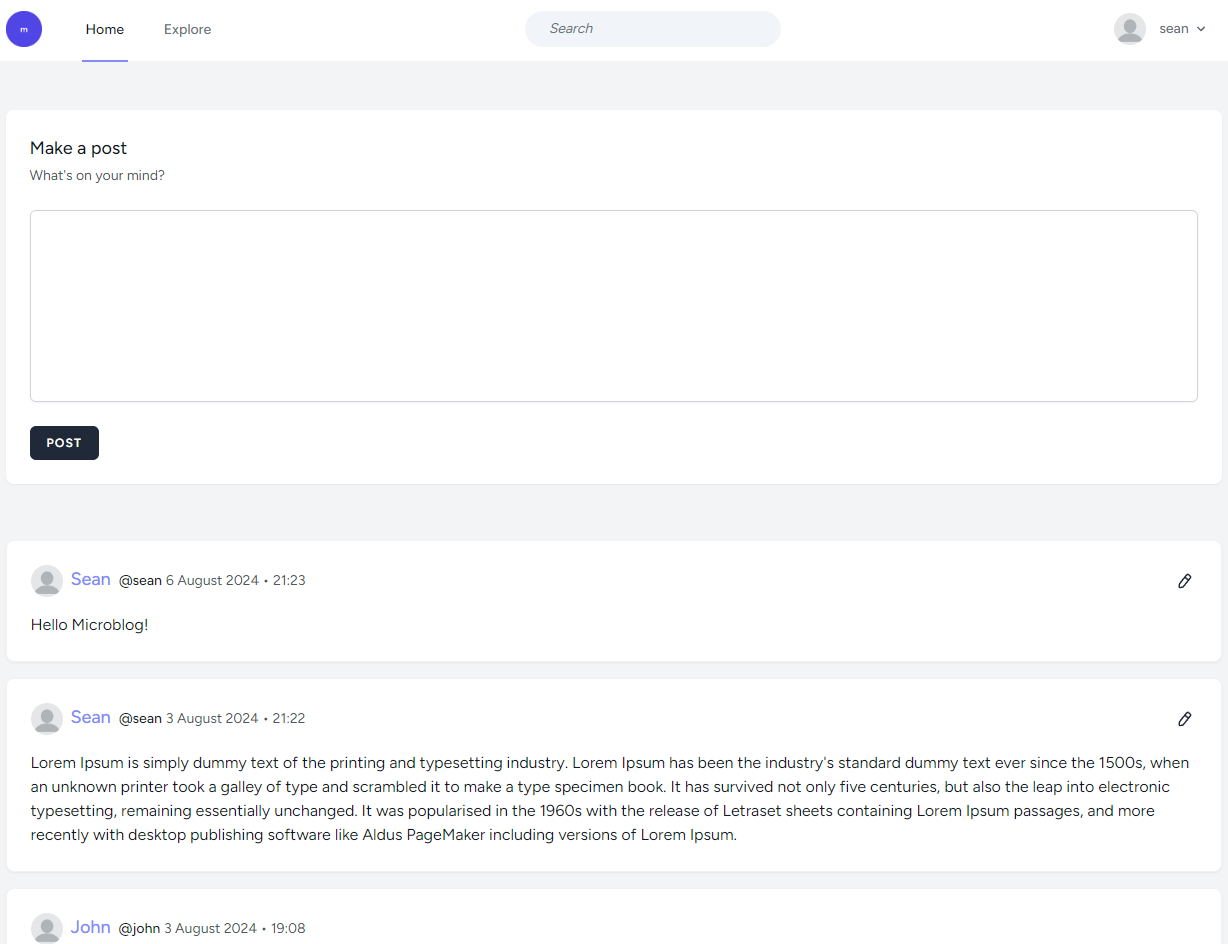
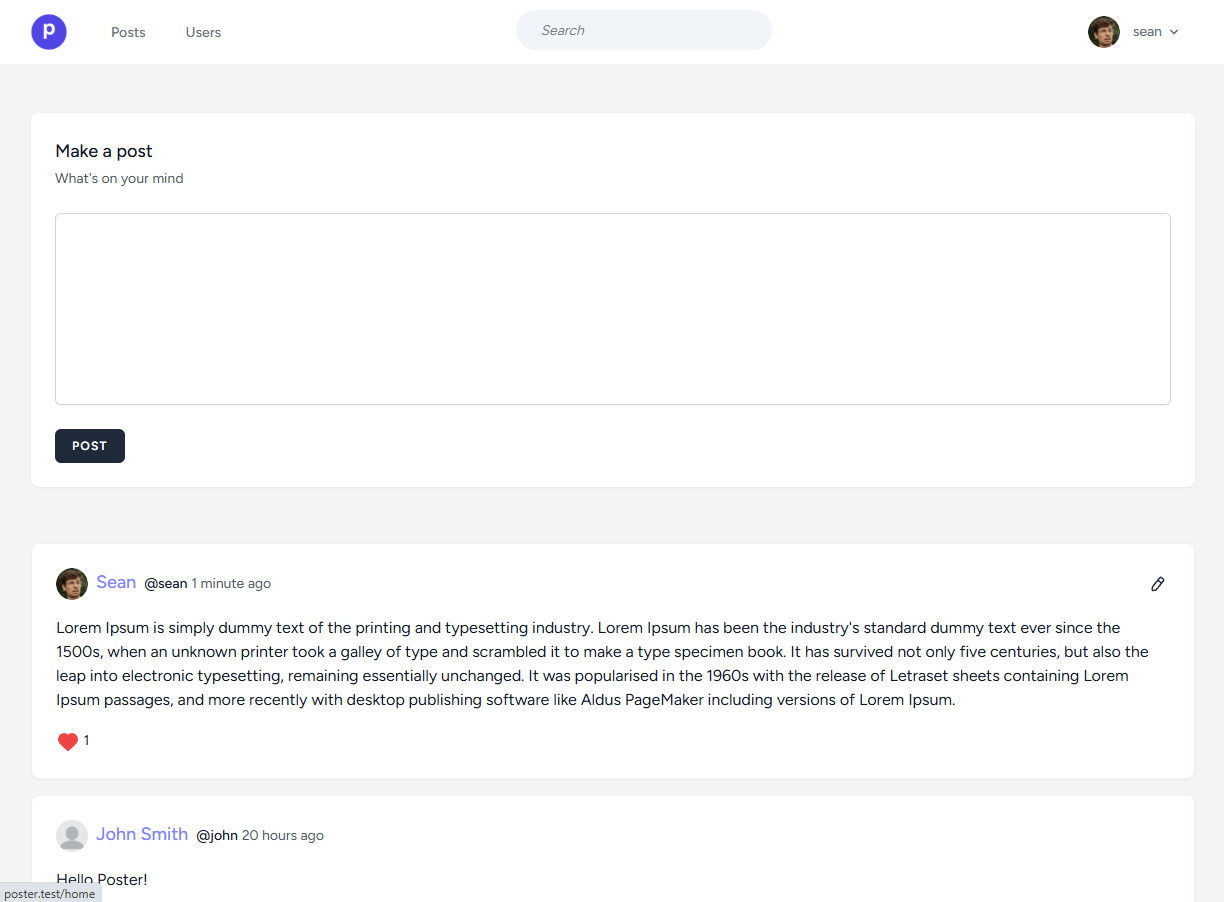
Name change

diff --git a/resources/views/welcome.blade.php b/resources/views/welcome.blade.php
@@ -4,7 +4,7 @@
         <meta charset="utf-8">
         <meta name="viewport" content="width=device-width, initial-scale=1">
 
-        <title>Microblog</title>
+        <title>{{ env('APP_NAME') }}</title>
 
         <!-- Fonts -->
         <link rel="preconnect" href="https://fonts.bunny.net">
@@ -14,10 +14,8 @@
         <link rel="icon" type="image/png" sizes="32x32" href="{{ asset('images/favicon/favicon-32x32.png') }}">
         <link rel="icon" type="image/png" sizes="16x16" href="{{ asset('images/favicon/favicon-16x16.png') }}">
         <link rel="manifest" href="{{ asset('images/favicon/site.webmanifest') }}">
-        <link rel="mask-icon" href="{{ asset('images/favicon/safari-pinned-tab.svg') }}" color="#5bbad5">
         <link rel="shortcut icon" href="{{ asset('images/favicon/favicon.ico') }}">
         <meta name="msapplication-TileColor" content="#2b5797">
-        <meta name="msapplication-config" content="{{ asset('images/favicon/browserconfig.xml') }}">
         <meta name="theme-color" content="#ffffff">
 
         @vite(['resources/css/app.css', 'resources/js/app.js'])
@@ -26,45 +24,11 @@
         <div class="bg-gray-50 text-black/50 dark:bg-black dark:text-white/50">
             <div class="relative min-h-screen flex flex-col items-center justify-center selection:bg-indigo-600 selection:text-white">
                 <div class="relative w-full max-w-2xl px-6 lg:max-w-7xl">
-                    <header class="grid grid-cols-2 items-center gap-2 py-10 lg:grid-cols-3">
-                        <div class="flex lg:justify-center lg:col-start-2">
-                            <x-application-logo class="h-12 w-auto fill-current" />
-                        </div>
-                    </header>
-
                     <main class="mt-6">
                         <div class="grid gap-6 lg:grid-cols-2 lg:gap-8">
-                            <a
-                                id="docs-card"
-                                class="flex flex-col items-start gap-6 overflow-hidden rounded-lg bg-white p-6 shadow-[0px_14px_34px_0px_rgba(0,0,0,0.08)] ring-1 ring-white/[0.05] md:row-span-3 lg:p-10 lg:pb-10 dark:bg-zinc-900 dark:ring-zinc-800"
-                            >
-                                <div id="screenshot-container" class="relative flex w-full flex-1 items-stretch">
-                                    <img
-                                        src="{{ asset('images/screenshot.png') }}"
-                                        alt="Website screenshot"
-                                        class="h-full w-full flex-1 rounded-[10px] drop-shadow-[0px_4px_34px_rgba(0,0,0,0.06)]"
-                                        onerror="
-                                            document.getElementById('screenshot-container').classList.add('!hidden');
-                                            document.getElementById('docs-card').classList.add('!row-span-1');
-                                            document.getElementById('docs-card-content').classList.add('!flex-row');
-                                            document.getElementById('background').classList.add('!hidden');
-                                        "
-                                    />
-                                    <div class="absolute -bottom-16 -left-16 h-40 w-[calc(100%+8rem)] bg-gradient-to-b from-transparent via-white to-white dark:via-zinc-900 dark:to-zinc-900"></div>
-                                </div>
-
-                                <div class="relative flex items-center gap-6 lg:items-end">
-                                    <div id="docs-card-content" class="flex items-start gap-6 lg:flex-col">
-                                        <div class="pt-3 sm:pt-5 lg:pt-0">
-                                            <h2 class="text-xl font-semibold text-black dark:text-white">Welcome to Microblog</h2>
-
-                                            <p class="mt-4 text-sm/relaxed">
-                                                A Microblogging web application, where users can post messages, comments, and follow other users.
-                                            </p>
-                                        </div>
-                                    </div>
-                                </div>
-                            </a>
+                            <div class="flex flex-col items-start gap-6 rounded-lg sm:pb-6 md:row-span-3 lg:p-10 lg:pb-10">
+                                <x-application-logo class="sm:h-64 lg:h-96" />
+                            </div>
 
                             <a
                                 href="{{ route('register') }}"

diff --git a/resources/views/layouts/app.blade.php b/resources/views/layouts/app.blade.php
@@ -6,11 +6,11 @@
         <meta name="csrf-token" content="{{ csrf_token() }}">
 
         <title>
-            @if(isset($title))
-                {{ __('Microblog - ') . $title }}
-            @else
-                {{ __('Microblog') }}
-            @endif
+            {{ config('app.name') }}
+
+            @isset($title)
+                {{ ' - ' . $title }}
+            @endisset
         </title>
 
         <!-- Fonts -->
@@ -21,10 +21,8 @@
         <link rel="icon" type="image/png" sizes="32x32" href="{{ asset('images/favicon/favicon-32x32.png') }}">
         <link rel="icon" type="image/png" sizes="16x16" href="{{ asset('images/favicon/favicon-16x16.png') }}">
         <link rel="manifest" href="{{ asset('images/favicon/site.webmanifest') }}">
-        <link rel="mask-icon" href="{{ asset('images/favicon/safari-pinned-tab.svg') }}" color="#5bbad5">
         <link rel="shortcut icon" href="{{ asset('images/favicon/favicon.ico') }}">
         <meta name="msapplication-TileColor" content="#2b5797">
-        <meta name="msapplication-config" content="{{ asset('images/favicon/browserconfig.xml') }}">
         <meta name="theme-color" content="#ffffff">
 
         <!-- Scripts -->
@@ -50,7 +48,7 @@
 
             <footer class="py-4 text-sm text-gray-600 dark:text-white/70">
                 <div class="max-w-7xl mx-auto py-6 px-4 sm:px-6 lg:px-8">
-                    <p class="float-left">&copy; {{ env('APP_NAME') }} {{ Date('Y') }}</p>
+                    <p class="float-left">&copy; {{ config('app.name') }} {{ Date('Y') }}</p>
                     <p class="float-right">
                         <a href="{{ route('lang', 'en') }}">EN</a>
                             &#10072;

diff --git a/resources/views/layouts/guest.blade.php b/resources/views/layouts/guest.blade.php
@@ -5,7 +5,7 @@
         <meta name="viewport" content="width=device-width, initial-scale=1">
         <meta name="csrf-token" content="{{ csrf_token() }}">
 
-        <title>{{ config('app.name', 'Microblog') }}</title>
+        <title>{{ config('app.name') }}</title>
 
         <!-- Fonts -->
         <link rel="preconnect" href="https://fonts.bunny.net">
@@ -15,10 +15,8 @@
         <link rel="icon" type="image/png" sizes="32x32" href="{{ asset('images/favicon/favicon-32x32.png') }}">
         <link rel="icon" type="image/png" sizes="16x16" href="{{ asset('images/favicon/favicon-16x16.png') }}">
         <link rel="manifest" href="{{ asset('images/favicon/site.webmanifest') }}">
-        <link rel="mask-icon" href="{{ asset('images/favicon/safari-pinned-tab.svg') }}" color="#5bbad5">
         <link rel="shortcut icon" href="{{ asset('images/favicon/favicon.ico') }}">
         <meta name="msapplication-TileColor" content="#2b5797">
-        <meta name="msapplication-config" content="{{ asset('images/favicon/browserconfig.xml') }}">
         <meta name="theme-color" content="#ffffff">
 
         <!-- Scripts -->
@@ -43,7 +41,7 @@
                             &#10072;
                         <a href="{{ route('lang', 'fr') }}">FR</a>
                     </p>
-                    <p>&copy; {{ env('APP_NAME') }} {{ Date('Y') }}</p>
+                    <p>&copy; {{ config('app.name') }} {{ Date('Y') }}</p>
                 </div>
             </div>
         </div>

diff --git a/resources/views/components/application-logo.blade.php b/resources/views/components/application-logo.blade.php
@@ -1,1 +1,1 @@
-<img src="{{ asset('images/logo.png')}}" alt="Microblog" {{ $attributes }} />
+<img src="{{ asset('images/logo.png')}}" alt="{{ config('app.name') }}" {{ $attributes }} />

diff --git a/README.md b/README.md
@@ -1,8 +1,8 @@
-# Microblog
+# Poster
 
 <img src="public/images/screenshot.png" alt="Screenshot">
 
-Microblog is a microblogging application which allows users to post, comment, like posts and follow users.
+Poster is a microblogging application where users can make posts, comment on posts, like posts and follow users.
 
 ## Installation
 
